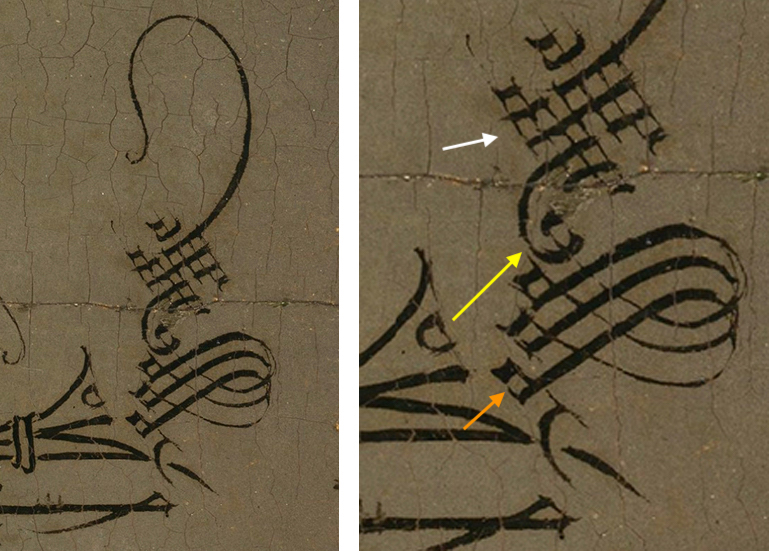
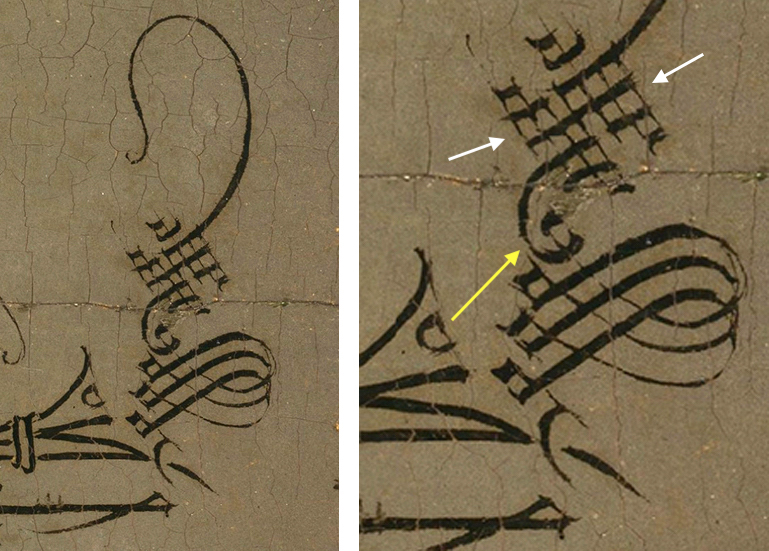
Draftopia

diff --git a/_drafts/the-arnolfini-reunion.md b/_drafts/the-arnolfini-reunion.md
@@ -255,15 +255,43 @@ What's clear is that the cause is some kind of hunger. If the fishy J wasn't int
             class="image-center"
             caption="Hungry J and snaky h" %}     
 
-Rather than eating the snake *notation* the h suggests 'communion' with it. So does the *CI* between the triplets and the h. The phallic I, in line with the lower jaw of the J fish, 'penetrates' a vaginal C. The yellow arrow points to a thin line on top of that C. It points to the I and the triplets, and makes the C look like a T with a crooked stem or the mirror image of a small J. The *CI* can stand for *Christus Iesus*. The flipped initials and the crooked T in the C can make it the *Tentator* kind of Christ, His mirror image: the Antichrist. Finally, the small J in mirror image suggests that the communion is internal: between the Christian and the anti-Christian *Johannes de eyck*. The Christian Jan is tempted by the anti-Christian one, and, unlike Jesus, Jan couldn't resist. The triplets represent the three temptations.
+Rather than eating the snake *notation* the h suggests 'communion' with it. So does the *CI* between the triplets and the h. The phallic I, in line with the lower jaw of the J fish, 'penetrates' a vaginal C. The yellow arrow points to a thin line on top of that C. It points to the I and the triplets, and makes the C look like a T with a crooked stem or the mirror image of a small J. The *CI* can stand for *Christus Iesus*. The flipped initials and the crooked T in the C can make it the *Tentator* kind of Christ, His mirror image: the Antichrist. Finally, the small J in mirror image suggests that the communion is internal: between the Christian and the anti-Christian *Johannes de eyck*. The Christian Jan is tempted by the anti-Christian one, and, unlike Jesus, Jan couldn't resist. He couldn't say "Get thee hence, Satan" – instead he *approached* the devil inside him. If the triplets represent the three temptations, Jan goes for the lowest of the three, which could be the third one. Which is the one about the kingdoms, according to Matthew; about the jumping from the temple, according to Luke.
+
+Between the triplets and the collection of small rectangles (similar to the heads of the little tempting snakes) a C-shaped eyelike form can be discerned. The also C-shaped eye of the J fish appears to be looking at it. This is suggested by the kinked little line connecting the ends of that C. Its bolder upper part can represent the upwardly directed pupil of the fish eye. The fish is looking at his very own *Tentator*.      
 
 {% include image.html
             img="../../../../assets/images/arnolfini/jantichrist.jpg"
             title="Jantichrist"
             class="image-center"
-            caption="Calligraphic devil" %}                                                                 
+            caption="The calligraphic devil inside" %}                                                                 
 
-inscriptie verwijst naar 'every word that proceeded etc.'? / koper = venus
+Given my association of this part of the signature fork with musical notation, the devilish head formed by it also looks strangely musical. In the 1430s the devil probably had the best tunes as well. Was the J fish first attracted by his deceptively sweet music? 
+
+The calligraphic devil has one visible, hook-like horn above the group of little rectangles (between the white arrows) that form the forehead. Perhaps they represent the devil's brain? Heavy eyebrows? Either way, the similarity of the little rectangles with the heads of the tempting triplets suggests that the area between the horn and the eye is the place where snaky temptations are born. Or where their heads are stored. Each temptation snake seems to be made of a head from the 'brain' and a body from the horn above it. The bodies of the triplets are like three smaller horns with (thinner) extensions. Because these horn lines are extended these bodies look more like the 'horn' of the J fish. Its tail also continues and crosses itself, forming almost an 8. The fact that the fish is curling his tail like the triplets can be regarded as a sign that he is biting and by succumbing to the (third) temptation is becoming like them – evil. By the way, rather than eights the triplets seem to form sixes (in mirror image). 
+
+{% include image.html
+            img="../../../../assets/images/arnolfini/666.png"
+            title="666"
+            class="image-center"
+            caption="666" %}
+
+As a whole the J fish looks like a horn, too. Like an empty cornucopia, to be precise. Bound together with three *I*'s, of which the largest is indicated by the orange arrow in the following image on the left. The red arrow points to a similar cornucopia binding.    
+
+{% include image.html
+            img="../../../../assets/images/arnolfini/cornucopia.jpg"
+            title="Cornucopia"
+            class="image-center"
+            caption="Bound cornucopias <br />Right: <span style='font-style: italic;'>Portrait of Ottavio Strada</span> (detail), Marietta Robusti, 1567-68" %}        
+
+According to Ovid and others the horn of plenty once belonged to a mythic goat (Amalthea). So what we see in the 'pointy' part of the (pitch)fork are two (parts of) goats looking each other in the eye. And perhaps, like the fish, the devilish part is also both partly and wholly horn. The shape of the triplets does suggest the opening of a horn. However, I prefer the idea that they complement each other. On the left we have a horn without plenty and on the right we see (below the shorter, already desginated devil's horn) plenty without horn. This 'plenty' would then comprise: the inner devil's 'brain', his eye, the triplets, and perhaps the *C[T/J]I* below it. If the latter forms the devil's mouth, the triplets should represent his nose. If, on the other hand, the C[T/J]I* forms the lower jaw, the triplets could form both the nose and the mouth. The head of the lower snakelet is like a little square mouth. And the heads of the two snakelets above it may represent the holes of the nose. 
+
+Whatever are the appointed nose and mouth, another intriguing thing about the calligraphic head's anatomy is that the eye appears to be to the 'brain' what the *C[T/J]I* is to the triplets. It suggests that one set develops from the other: that the *C[T/J]I* is formed from the eye and the triplets from the 'brain' – and/or the other way round. The developing of the triplets and the *C[T/J]I* can then be seen as the equivalent of the approach of the tempter in Matt. 4:3. 
+
+Continuing along the complementary line, you might say that on the one hand you have a good but skinny goat and on the other a bad, fat goat. The relative goodness of the J is suggested by its fishiness. Jesus and fish are associated, most notably by the ichthys symbol. The three *I*'s binding the 'horny' J fish can be seen as I's of the Latin *Iesus*. And if you look closely, you can see that these light binding I's are formed by dark J's. The three bindings may refer to the popular etymology of *religion*, but also to the light yoke of Christ. The largest one, around the neck, still leaves some room for the widening of the mouth. But otherwise they seem to prevent J from splitting himself in two in order to fill himself with plenty. The strength of those three bindings can therefor be seen as a measure of J's Christian strength. His strength to resist temptation. So the slight looseness in the neck reflects his loosening morals. For the J horn to become a hormn of plenty, the bindings *need* to loosen up. Otherwise the horn can't be filled.
+
+This all reminds me of the dilemma that has pestered professional artists throughout the ages. Hold on to your lofty principles and starve, or sell out and eat. One way of dealing with this is to do what Van Eyck seems to be doing here: eat, and be sorry. To tell in a hidden way what you **really** think. In the same commission that caused the moral pain, or, as it seems the case here, in another work.                 
+
+666 / inscriptie verwijst naar 'every word that proceeded etc.'? / koper = venus
 
 [^1]: Stephen J. Vicchio, T*he Legend of the Anti-Christ: A History* (2009), p. 122
 
